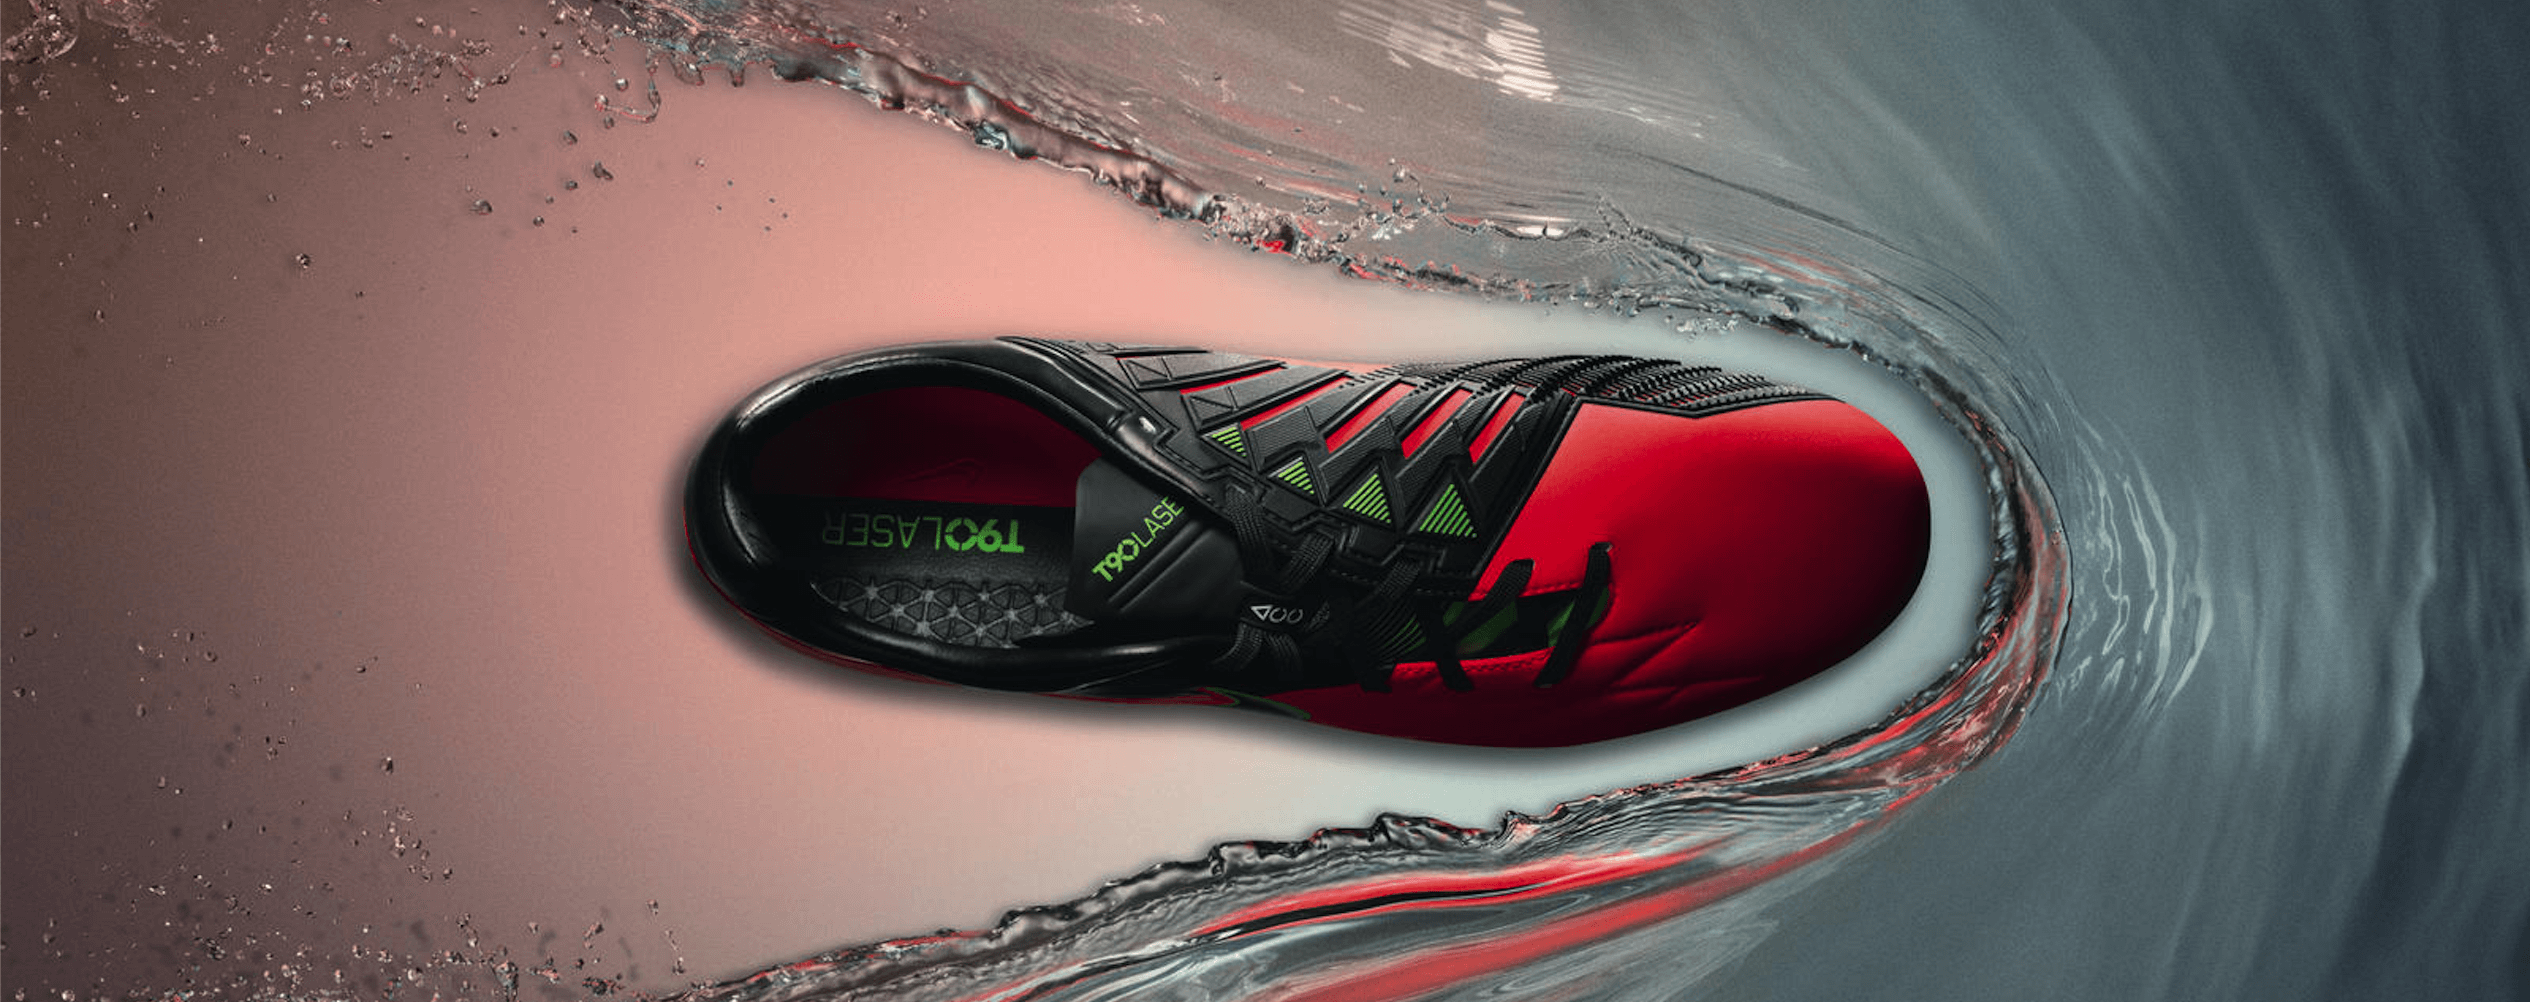
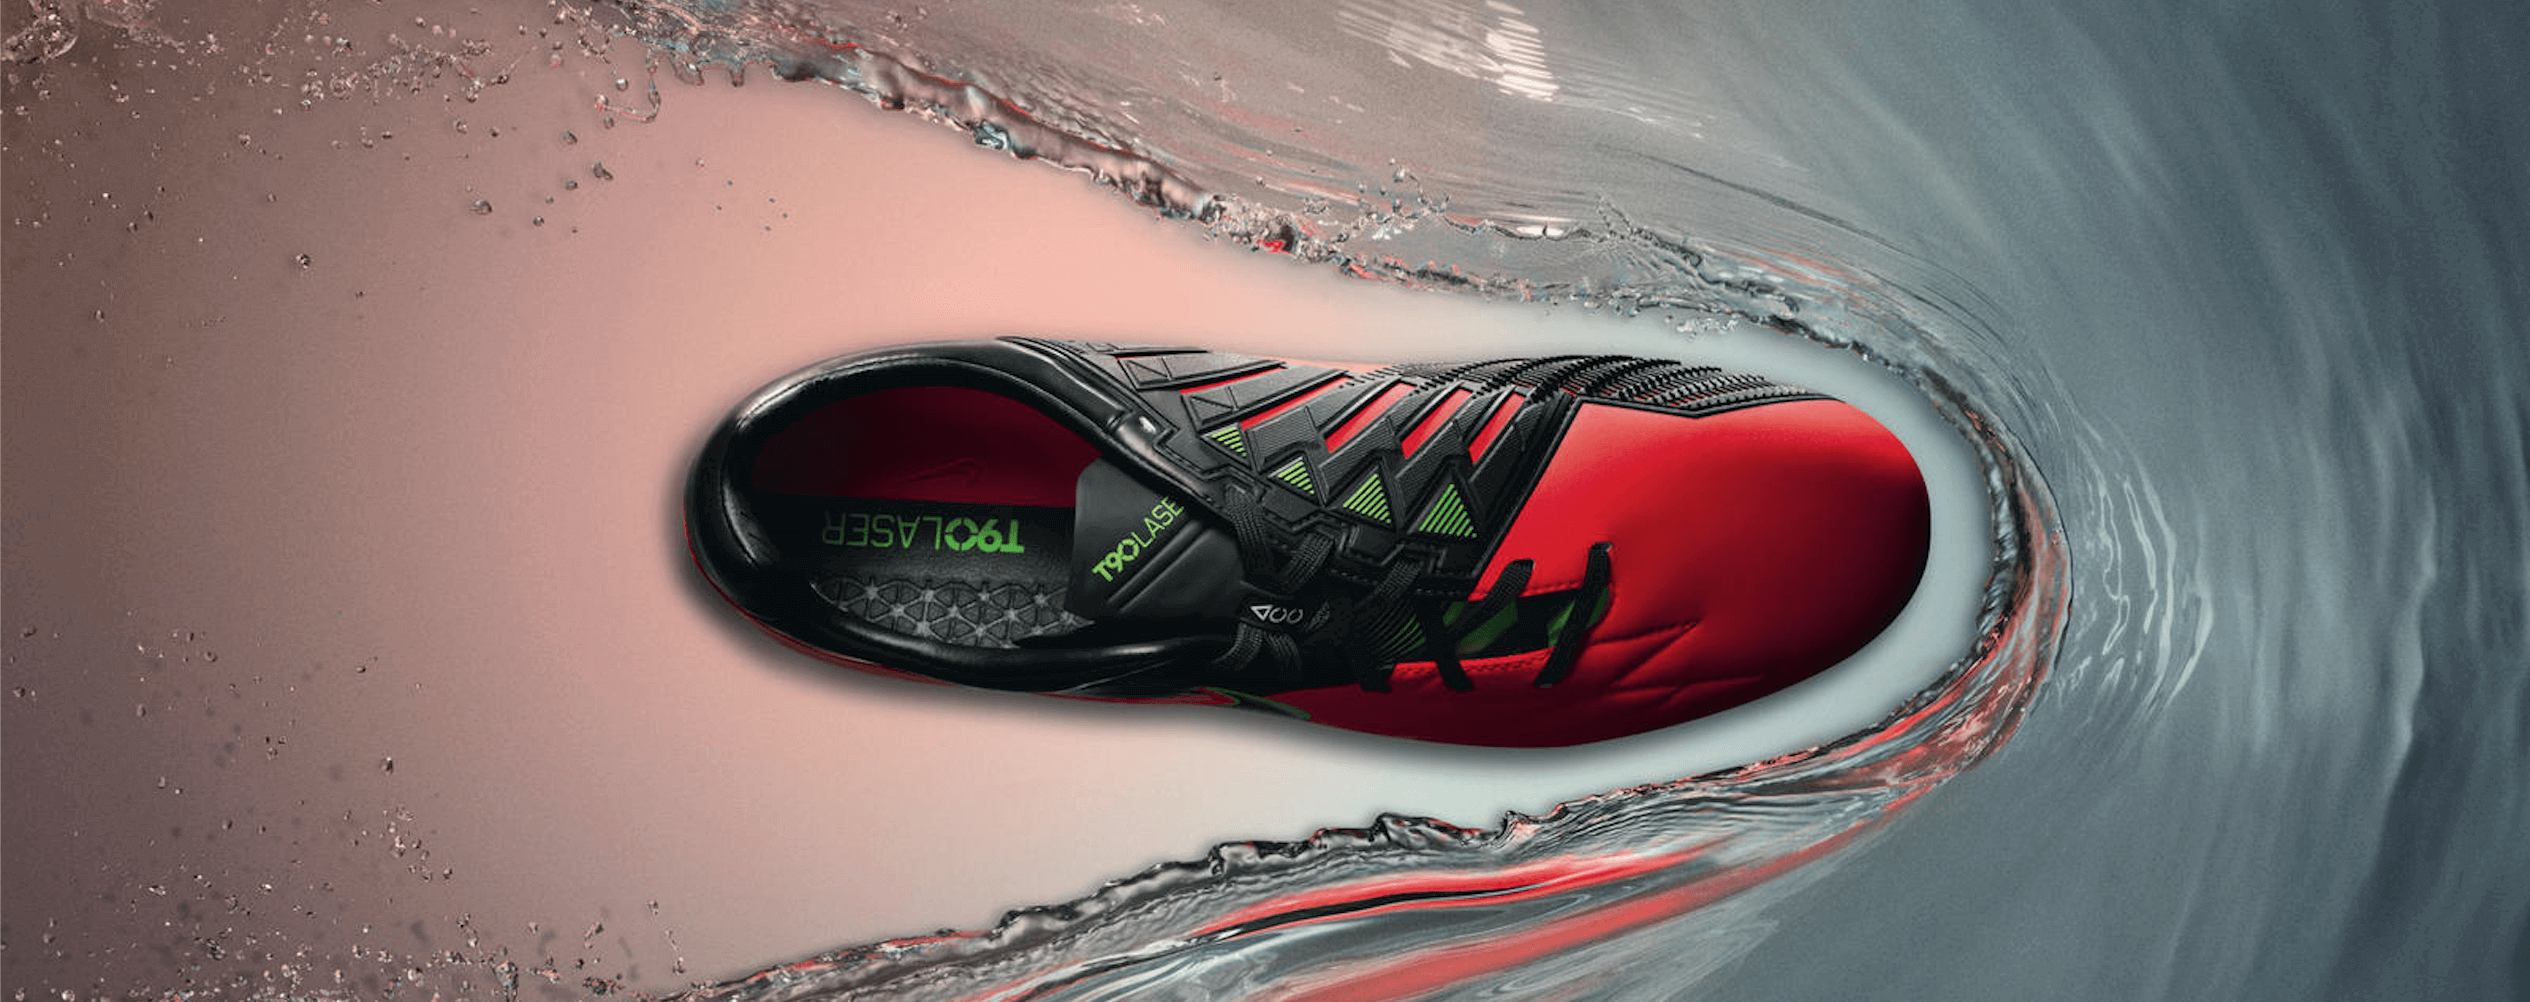
[ch142] Optimize image and rename meaningful classname and others
[ch142] Fix delete DS_Store

Changed region(s): [[0.5621, 0.4331, 0.7494, 0.5878], [0.0312, 0.2475, 0.0625, 0.2784], [0.0312, 0.1547, 0.0625, 0.1856]]

diff --git a/src/components/NewRelease/index.tsx b/src/components/NewRelease/index.tsx
@@ -9,33 +9,33 @@ interface NewReleaseItem {
 
 const NewReleaseItem = ({ leftContent }: NewReleaseItem) => {
   const { t } = useTranslation('home')
-  const Header = (props) => <h2 className="release-item__header" {...props} />
+  const Header = (props) => <h2 className="new-release-item__header" {...props} />
 
   const renderIntroductionHeader = () => (
     <Trans
-      i18nKey={t('releaseItemSectionHeader')}
+      i18nKey={t('newReleaseItemSectionHeader')}
       components={[<Header />, <br />]}
     />
   )
 
   return leftContent ? (
-    <div className="release-item">
-      <div className="release-item__content">
+    <div className="new-release-item">
+      <div className="new-release-item__content">
         {renderIntroductionHeader()}
-        <h2 className="release-item__description">{t('releaseItemSectionDescription')}</h2>
-        <h2 className="release-item__price">$120.00</h2>
+        <h2 className="new-release-item__description">{t('newReleaseItemSectionDescription')}</h2>
+        <h2 className="new-release-item__price">$120.00</h2>
         <Link href="">
-          <a className="release-item__product">{t('releaseItemSectionProduct')}</a>
+          <a className="new-release-item__product">{t('newReleaseItemSectionProduct')}</a>
         </Link>
       </div>
-      <div className="release-item__media">
+      <div className="new-release-item__media">
         <Link href="/">
-          <a className="release-item__link">
-            <figure className="release-item__image-container">
+          <a className="new-release-item__link">
+            <figure className="new-release-item__image-container">
               <img
                 src="/images/nike-running.jpg"
                 alt="Sneaker running shoe by Shane Aldendorff from Pexels"
-                className="release-item__image"
+                className="new-release-item__image"
               />
             </figure>
           </a>
@@ -43,27 +43,27 @@ const NewReleaseItem = ({ leftContent }: NewReleaseItem) => {
       </div>
     </div>
   ) : (
-    <div className="release-item">
-      <div className="release-item__media">
+    <div className="new-release-item">
+      <div className="new-release-item__media">
         <Link href="/">
-          <a className="release-item__link">
-            <figure className="release-item__image-container">
+          <a className="new-release-item__link">
+            <figure className="new-release-item__image-container">
               <img
                 src="/images/nike-sneaker.jpg"
                 alt="Sneaker running shoe by VisualHunt.com
                 Nike sneaker shoe by Grailify from Pexels"
-                className="release-item__image"
+                className="new-release-item__image"
               />
             </figure>
           </a>
         </Link>
       </div>
-      <div className="release-item__content release-item--grey-background">
+      <div className="new-release-item__content new-release-item--grey-background">
         {renderIntroductionHeader()}
-        <h2 className="release-item__description">{t('releaseItemSectionDescription')}</h2>
-        <h2 className="release-item__price">$120.00</h2>
+        <h2 className="new-release-item__description">{t('newReleaseItemSectionDescription')}</h2>
+        <h2 className="new-release-item__price">$120.00</h2>
         <Link href="">
-          <a className="release-item__product">{t('releaseItemSectionProduct')}</a>
+          <a className="new-release-item__product">{t('newReleaseItemSectionProduct')}</a>
         </Link>
       </div>
     </div>

diff --git a/src/components/NewReleaseBanner/index.tsx b/src/components/NewReleaseBanner/index.tsx
@@ -4,20 +4,20 @@ import Trans from 'next-translate/Trans'
 
 const NewReleaseBanner = () => {
   const { t } = useTranslation('home')
-  const Header = (props) => <h2 className="release-banner__header" {...props} />
+  const Header = (props) => <h2 className="new-release-banner__header" {...props} />
 
   const renderIntroductionHeader = () => (
     <Trans
-      i18nKey={t('releaseSectionHeader')}
+      i18nKey={t('newReleaseSectionHeader')}
       components={[<Header />, <br />]}
     />
   )
 
   return (
-      <div className="release-banner">
+      <div className="new-release-banner">
         {renderIntroductionHeader()}
-        <p className="release-banner__description">
-          {t('releaseSectionDescription')}
+        <p className="new-release-banner__description">
+          {t('newReleaseSectionDescription')}
         </p>
       </div>
   )

diff --git a/src/styles/components/__components-dir.scss b/src/styles/components/__components-dir.scss
@@ -26,5 +26,5 @@
 @import './logo';
 @import './about-us-introduction';
 @import './about-us-section';
-@import './release-banner';
-@import './release-item';
+@import './new-release-banner';
+@import './new-release-item';

diff --git a/src/styles/components/_new-release-banner.scss b/src/styles/components/_new-release-banner.scss
@@ -1,6 +1,6 @@
 @import '../abstracts/_abstracts-dir';
 
-.release-banner {
+.new-release-banner {
   display: flex;
   flex-direction: column;
   justify-content: flex-end;

diff --git a/src/styles/components/_new-release-item.scss b/src/styles/components/_new-release-item.scss
@@ -1,6 +1,6 @@
 @import '../abstracts/_abstracts-dir';
 
-.release-item {
+.new-release-item {
   display: flex;
   justify-content: space-between;
   height: rem(162px);
